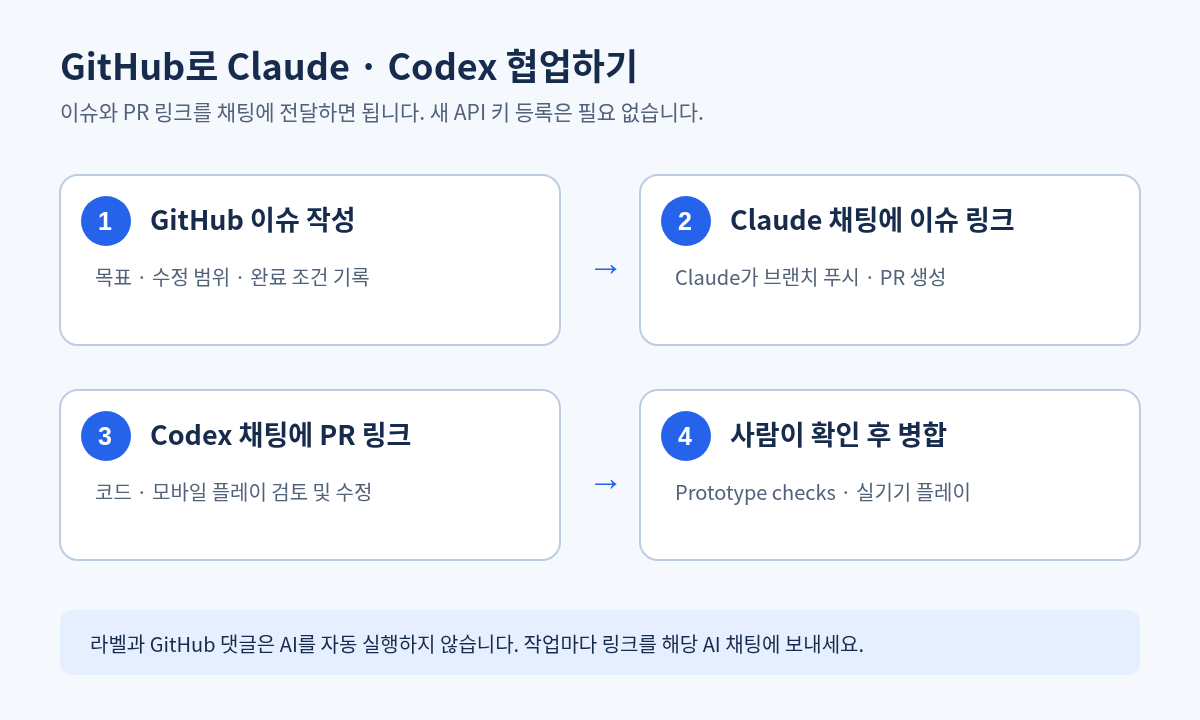
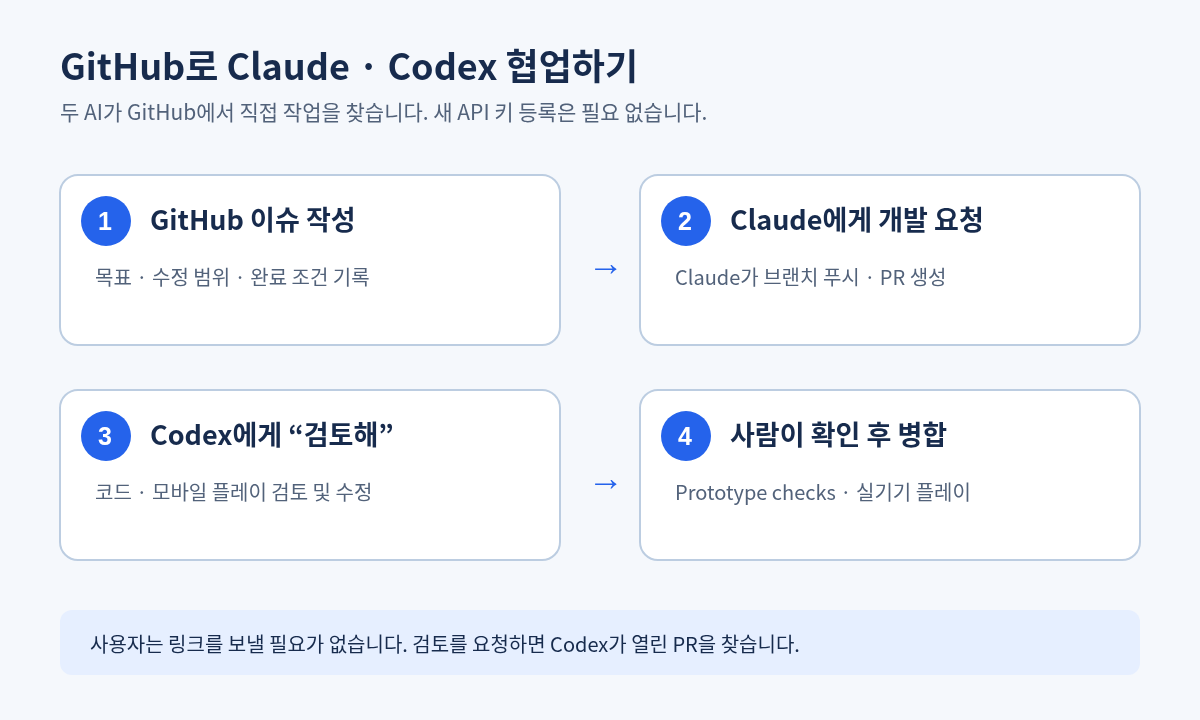
Let both agents find repository work without pasted links

diff --git a/docs/AI_AUTOMATION.md b/docs/AI_AUTOMATION.md
@@ -1,27 +1,20 @@
-# Claude ↔ GPT 협업 (API 없이 GitHub로)
+# GitHub로 Claude·Codex 협업하기
 
-API 키를 등록하지 않는다. 두 AI는 각자 앱에서 이 저장소에 GitHub로 연결해 작업하고, **이슈·PR·커밋으로만** 소통한다. 서로의 채팅은 공유되지 않으므로 필요한 내용은 전부 GitHub에 남긴다.
+![Claude와 Codex가 같은 GitHub 저장소에서 작업하는 순서](images/ai-setup-guide.png)
 
-| | Claude | GPT (ChatGPT Codex) |
-|---|---|---|
-| 연결 | Claude Code(claude.ai/code)의 GitHub 연동 | ChatGPT Codex의 GitHub 연동(Codex 앱) |
-| 작업 시작 | Claude 세션에 "이슈 #N 해줘" | Codex 웹에서 저장소 선택 후 "이슈 #N 해줘" |
-| 검토 요청 | Claude 세션에 "PR #N 검토해줘" | PR 코멘트에 `@codex review` |
-| 결과 | 브랜치 푸시 + PR, 검토는 PR 코멘트 | 브랜치 푸시 + PR, 검토는 PR 코멘트 |
+Claude Code와 이 Codex 환경은 같은 `mijiye29-creator/winter-rush` 저장소를 볼 수 있다. **사용자가 작업 링크를 옮길 필요는 없다.** Claude에게 작업을 맡기고 이 대화에서 “검토해”라고 하면, Codex가 GitHub의 최신 열린 PR을 찾아 확인한다. 작업 대상이 여러 개면 이슈·PR 번호로 구분한다.
 
-## 1회 설정
+| 단계 | 담당 | GitHub 기록 |
+| --- | --- | --- |
+| 작업 | Claude 또는 Codex | 이슈, 작업 브랜치, 커밋, PR |
+| 검토·수정 | 다른 AI | PR 검토 의견과 후속 커밋 |
+| 출시 결정 | 사용자 | CI·모바일 플레이 확인 후 병합 |
 
-- **GPT**: ChatGPT Codex 설정의 [Environments](https://chatgpt.com/codex/cloud/settings/environments)에서 이 저장소(`mijiye29-creator/winter-rush`) 환경을 한 번 만든다. 없으면 `@codex review`에 "create an environment" 안내 댓글만 달린다.
-- **Claude**: claude.ai/code에서 GitHub를 연결하고 이 저장소를 고른다.
+## 작업 방식
 
-## 순서
+1. 사용자가 Claude에게 기능을 요청한다. Claude가 필요하면 이슈를 만들고 `origin/main` 기준 브랜치에서 구현해 PR을 올린다.
+2. 사용자가 여기서 “검토해”라고 하면 Codex가 열린 PR을 직접 조회한다. 링크를 붙여 넣을 필요가 없다. Codex는 필요한 수정을 같은 PR에 반영하고 검사 결과를 기록한다.
+3. Claude가 다시 수정할 때는 GitHub PR의 검토 의견을 읽는다. 두 AI는 서로의 채팅을 볼 수 없으므로 결정과 인수인계는 이슈·PR에 남긴다.
+4. [Prototype checks](https://github.com/mijiye29-creator/winter-rush/actions)와 휴대폰 플레이를 확인한 뒤 사용자가 병합한다.
 
-1. 형이 이슈를 만든다(템플릿 5줄, 담당 라벨 `claude` 또는 `codex`).
-2. 담당 AI가 이슈에 "시작: 브랜치 이름"을 남기고 작업 → PR(`Closes #N`).
-3. 다른 AI가 PR을 검토하고 PR 코멘트로 의견을 남긴다. 고칠 것은 담당 AI가 같은 브랜치에 커밋, 나중 일은 새 이슈.
-4. 형이 CI·모바일 플레이를 확인하고 병합한다. 병합 후 `gh-pages` 배포.
-
-## 꺼 둔 것
-
-- `.github/workflows/claude-issues.yml`, `codex-review.yml`은 API 키가 필요한 자동 실행이다. 저장소 변수 `AI_COLLAB_ENABLED`가 없으면 실행되지 않으므로 **등록하지 않는다**. API 비용이 생기지 않는다.
-- Codex 검토는 ChatGPT 계정 사용량을 쓴다. 한도에 걸리면 PR에 그렇게 댓글이 달리며, 그때는 Claude에게 검토를 맡기거나 한도가 풀린 뒤 `@codex review`를 다시 단다.
+이 방식은 GitHub Actions용 AI API 키 등록이 필요 없다. GitHub 라벨만 붙여도 AI가 저절로 작업을 시작하지는 않는다. `@codex review` GitHub 댓글 기능은 Codex 저장소 환경이 연결되어 있을 때만 동작한다. PR #30에서는 환경을 만들라는 안내 댓글이 달렸으므로, 현재 검토는 이 Codex 대화에서 진행한다.

diff --git a/docs/WORKFLOW.md b/docs/WORKFLOW.md
@@ -1,17 +1,17 @@
 # 개발 협업 방식
 
-## GitHub 링크로 협업
+## GitHub에서 협업
 
 모든 작업과 검토 의견은 GitHub 이슈와 PR에 남긴다. 채팅으로 설명을 반복하지 않고, 각 AI는 이슈에 적힌 범위의 코드만 읽는다.
 
 1. **작업 = 이슈 1개.** 본문은 템플릿 5줄(목표·담당·브랜치/기준·수정 범위·완료 조건). `작업` 템플릿은 Claude 담당이며 `claude` 라벨이 붙는다. 사용자 결정이 필요하면 `형-결정` 라벨을 붙인다.
 2. **시작할 때** 담당자가 이슈에 "시작: 브랜치 이름" 코멘트를 남긴다. 같은 파일을 다른 이슈가 수정 중이면 기다리거나 그 이슈에 코멘트로 조율한다.
-3. **끝나면 PR.** PR 본문 첫 줄 `Closes #번호`. GPT 검토는 PR 코멘트에 `@codex review`, Claude 검토·수정은 Claude 세션에 PR 번호를 알려 준다.
+3. **끝나면 PR.** PR 본문 첫 줄은 `Closes #번호`. Claude가 PR을 올리면 Codex가 열린 PR을 직접 찾아 검토한다. 수정 요청은 PR에 기록한다.
 4. **검토 결과**는 PR 리뷰 코멘트로. 이번 PR에서 고칠 것은 담당자가 고치고, 나중 일은 새 이슈로 만든다(코멘트에 묻히지 않게).
 5. **인수인계**는 이슈 코멘트 한 개: 한 일, 남은 일, 다음 명령. `docs/HANDOVER.md`에는 코드 구조가 바뀔 때만 쓴다.
-6. **API 없이 GitHub로만 협업**: 두 AI 모두 각자 앱의 GitHub 연동으로 작업하고 API 키는 등록하지 않는다. 방법은 [`AI_AUTOMATION.md`](AI_AUTOMATION.md)에 있다.
+6. **작업 전달**: 이슈·PR·브랜치를 GitHub에 저장하면 다른 AI가 직접 조회한다. 라벨이나 `@claude` 댓글만으로 AI가 실행되지는 않는다. 그림과 작업 순서는 [`AI_AUTOMATION.md`](AI_AUTOMATION.md)에 있다.
 
-사용자는 "이슈 만들어줘"라고 요청하고, 완성된 이슈 링크를 Claude에게 전달하면 된다. 우선순위를 바꾸려면 이슈에 코멘트를 남긴다.
+사용자는 Claude에게 작업을 요청하고 이 대화에서 “검토해”라고 말하면 된다. 이슈·PR 링크는 AI가 직접 찾는다. 우선순위를 바꾸려면 이슈에 코멘트를 남긴다.
 
 ## 코드와 배포
 

diff --git a/AGENTS.md b/AGENTS.md
@@ -3,9 +3,9 @@
 - Playable source: `prototype/index.html` (page), `prototype/style.css` (UI), `prototype/game.js` (game logic), `prototype/balance.js` (tuning and upgrade data). Keep the prototype runnable without a build step or network.
 - Design and test records: `docs/GDD.md`, `docs/PLAYTEST.md`. Change the design record when mechanics or numbers change.
 - `main` is the latest playable web game (`prototype/`). Work happens on one branch per issue and lands on `main` through a PR. `gh-pages` is the publish branch: deploy copies `main:prototype/{balance.js,game.js,index.html,style.css,vendor/,models/}` to its root and writes `version.json` with the deployed commit sha.
-- Claude and GPT (Codex) collaborate only through GitHub, with no API keys: issues, branches, PRs and PR comments (see `docs/AI_AUTOMATION.md`). Ask Codex for a review with a `@codex review` PR comment.
+- Claude and Codex collaborate through GitHub issues, branches, PRs and PR comments (see `docs/AI_AUTOMATION.md`). Their chats are separate; each AI finds relevant repository work when asked.
 - Work from GitHub issues (see `docs/WORKFLOW.md`): one issue per task, owner label `claude` or `codex`, PR body starts with `Closes #N`, reviews go in PR comments, follow-ups become new issues. Comment "시작: <branch>" on the issue before editing; if another open issue is changing the same file, coordinate on that issue first.
-- Labels and mentions do not start AI work. Share the issue or PR URL in the Claude or Codex chat to hand off a task; push the branch first so the other AI can read it.
+- Labels and mentions do not start AI work. When asked to review, find the relevant open PR on GitHub without requiring the user to paste its URL. Push the branch first so the other AI can read it.
 - Before editing, fetch the active branch and check `git status`. Read only the code the issue's scope names.
 - After editing, check JavaScript syntax, run the mobile browser smoke check, and report what was tested. Push only commits based on the current remote head.
 - Keep replies short. Report changed files and observed behavior; do not paste whole source files. If work must stop, use the user's handover format with exact branch and next command.

diff --git a/docs/AI_COLLABORATION.md b/docs/AI_COLLABORATION.md
@@ -1,8 +1,7 @@
 # Codex와 Claude 함께 작업하기
 
-이 문서는 [`AI_AUTOMATION.md`](AI_AUTOMATION.md)로 옮겼다. API 키 없이 GitHub 이슈·PR·코멘트로만 협업한다.
+두 AI는 같은 GitHub 저장소에서 이슈·브랜치·PR을 확인한다. 사용자는 링크를 복사할 필요 없이 Claude에게 개발을, Codex에게 “검토해”라고 요청하면 된다. Codex는 열린 PR을 직접 찾는다.
 
-- 한 기능 = 이슈 1개, 담당 AI 한 명, 브랜치 1개, PR 1개.
-- 같은 파일을 두 AI가 동시에 고치지 않는다. 시작 전 이슈에 "시작: 브랜치 이름"을 남긴다.
-- 넘길 때는 이슈나 PR 코멘트에 "한 일 / 남은 일 / 다음 명령"을 쓴다.
-- 앱 서명 키·계정 정보·API 키는 채팅이나 Git에 붙여 넣지 않는다.
+두 AI의 채팅과 로컬 커밋은 공유되지 않는다. 브랜치를 GitHub에 푸시하고 인수인계와 검토 결과를 이슈·PR에 기록한다. 같은 파일을 동시에 고치지 않는다.
+
+자세한 순서는 [GitHub 협업 안내](AI_AUTOMATION.md)에 있다.

diff --git a/.github/ISSUE_TEMPLATE/task.md b/.github/ISSUE_TEMPLATE/task.md
@@ -10,4 +10,4 @@ labels: claude
 수정 범위: 파일 또는 함수
 완료 조건: 모바일 조작, 저장 후 이어하기, 콘솔 오류 없음 등
 
-라벨은 담당 표시용입니다(자동 실행 없음). 작성 후 담당 AI 앱에서 시작하세요: Claude는 Claude Code 세션에 "이슈 #번호 해줘", Codex는 ChatGPT Codex에서 이 저장소를 고르고 "이슈 #번호 해줘". 자세한 방법은 `docs/AI_AUTOMATION.md`.
+`claude` 라벨은 담당 표시용입니다. Claude에게 작업을 요청하면 Claude가 이 저장소의 이슈를 직접 찾을 수 있습니다.
